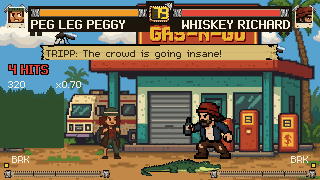
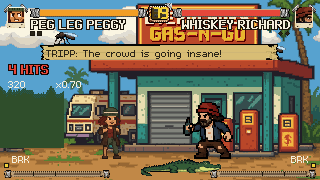
fix(hud): METH READY above each meter so both can show at once
PM review of PR #96: with both meters full the beside-the-meter labels
and skulls collided mid-screen. Each label now sits above its own meter,
flush with the inner end, skull in the empty middle; P2 BRK ink ends
before its pip. New hud_test check (81 -> 82) pins labels, skulls and BRK
apart with both meters full. Captures reset high contrast after its shot,
so the combo screenshots show the default HUD; all HUD shots re-captured.

Claude-Session: https://claude.ai/code/session_01MQNP9q7juxGwGURViUuvSn

diff --git a/docs/UI_SCREENS.md b/docs/UI_SCREENS.md
@@ -166,7 +166,7 @@ banners, callouts and macro flashes clear.
 | Names | outlined Marker cream at y 19 (P1 left from x 30, P2 right to x 290) | static per fighter |
 | Round pips | y 31 from each bar's outer end; P1 `hud_pip_square_*`, P2 `hud_pip_diamond_*` | grow with double-KO pips. **No win-type letters: MatchRoot keeps no per-round win history** (TODO: the K/T/M/D pip art is approved and waits on a sim-side decision). |
 | Timer | `hud_timer_box.png` at (148,3); two 8x12 cells from `hud_timer_digits.png` (0-9, cell 10 = infinity), centered | under 10 s the box tints dirty yellow and the digits tick one shade per 15 sim frames |
-| Meter | `hud_meter_frame.png` 106x8 at (4,170)/(210,170); 90x4 fill `#5ac8ff` between the tape caps (+7,+2) above the frame art, tick marks at 25 and 50 | at full the fill turns `#ff3d9a`, "METH READY" in outlined Marker pink sits beside the bar (P1 edge x 114, P2 edge x 206) and the 8x8 skull frames alternate every **15 sim frames** |
+| Meter | `hud_meter_frame.png` 106x8 at (4,170)/(210,170); 90x4 fill `#5ac8ff` between the tape caps (+7,+2) above the frame art, tick marks at 25 and 50 | at full the fill turns `#ff3d9a`, "METH READY" in outlined Marker pink sits ABOVE its own meter (y 157), flush with the inner end (P1 right edge x 110, P2 left edge x 210), skull just past that end (x 112 / 200, y 159), so both can show at once; BRK stays at the outer end. The 8x8 skull frames alternate every **15 sim frames** |
 | Banners | 160x32 `hud_banner_plate.png` centered (y 74) with the word sprite: round_1-5, decisive, fight, ko, time, double_ko, methtality | stamp in over **6 sim frames** from 8 px above in integer steps; spriteless messages (TAKES THE ROUND, WINS THE MATCH, DRAW, SUDDEN DEATH, ROUND 6+) render in outlined Marker cream on the plate. FIGHT auto-removes after 30 sim frames, METH after 120; round/KO banners persist until replaced (today's timing). |
 | Callouts | outlined Marker cream on the event owner's side at y 80 | COUNTER HIT / TECH / BREAK! / CLIP CANCEL use the existing one-at-a-time slot for **30 sim frames** |
 | Combo counter | existing positions and outlined Marker font at y 64; P1 left, P2 right | the defender's `combo_tracker.changed(hits, total_damage)` drives the **opposite attacker's side**. Tint follows the base ladder for the latest hit: 1.00 yellow, 0.85 orange, 0.70 red, 0.55-or-lower pink. The damage total at y 77 and `x0.70`-style m5x7 scale tag are shown only when `gameplay.show_combo_damage` is on. The scale tag reports the base ladder tier, not move-specific repeat/variety modifiers. Both line items yield to a same-side callout to prevent label overlap. |
@@ -384,7 +384,7 @@ on an approved file missing from the table, and exits non-zero.
   up; the 30-frame Results guard; REMATCH routes through the VS bumper
   and keeps fighters and stage; CHARACTER SELECT / STAGE SELECT /
   MAIN MENU all route correctly and unpause.
-- `game/tests/hud_test.gd` — 81 checks (UI Phase 2 + Combo Phase 4, against a scratch
+- `game/tests/hud_test.gd` — 82 checks (UI Phase 2 + Combo Phase 4, against a scratch
   settings.cfg): portrait states; health and the 20-frame ghost drain;
   the HUD tick frozen while paused; pip sprites; timer digit cells and
   the under-10 tint; meter width, the METH-pink full state and the

diff --git a/docs/PM_BRIEF.md b/docs/PM_BRIEF.md
@@ -16,7 +16,7 @@
 > high_contrast_hud, hide_tripp_text). This branch adds **Combo Phase 4's
 > HUD half**: the defender's combo count/damage/base scale and juggle pips
 > on the attacker's side, macro flash, stun bar, breaker pip, and BREAK! /
-> CLIP CANCEL callouts. New suite counts: hud_test 81; ui_typography 46;
+> CLIP CANCEL callouts. New suite counts: hud_test 82; ui_typography 46;
 > round_flow 35
 > (decisive/FIGHT banner pins). Win-type pip letters stay out —
 > MatchRoot keeps no per-round win history (KNOWN_ISSUES). (Earlier on
@@ -136,7 +136,7 @@ Counts are PASS+FAIL lines observed in real headless runs, not doc claims.
 | `ui_typography_test.gd` | Phase 1 + PR A/B/C typography and contrast rules; HUD labels at round start/mid-fight and overlap-free juggle, stun, full-meter breaker and P2 callout+combo states | **46**, 0 fail | yes |
 | `select_screens_test.gd` | PR A select reskins: Mode/Difficulty choices unchanged (names, order, defaults, emits, back paths), difficulty tallies, rap-sheet photo + wall copy, per-player scribble cursors, ticket focus lift, the 18-frame RANDOM scratch-off and its hand-off | **24**, 0 fail | yes — added 2026-11-22 (PR A) |
 | `results_flow_test.gd` | PR B match wrap: the VS slide-in (12 integer steps), 20-frame skip guard, 150-frame duration and hand-off; Results appears at match end above the frozen match with the real winner/stats; serialize() identical while Results is up; the 30-frame Results guard; every Results option routes (REMATCH keeps fighters and stage through the VS bumper) | **20**, 0 fail | yes — added 2026-11-22 (PR B) |
-| `hud_test.gd` | UI Phase 2 + Combo Phase 4 HUD: combo side-mirroring, ladder tint/scale setting, macro flash, juggle/stun/breaker readouts, event callouts, pause/load resync, and unchanged MatchRoot serialization | **81**, 0 fail | yes |
+| `hud_test.gd` | UI Phase 2 + Combo Phase 4 HUD: combo side-mirroring, ladder tint/scale setting, macro flash, juggle/stun/breaker readouts, event callouts, pause/load resync, and unchanged MatchRoot serialization | **82**, 0 fail | yes |
 | `air_probe.gd` | Balance metrics only, asserts nothing, always exits 0 | 0 (metrics) | yes (separate job) |
 | `juggle_probe.gd` | Juggle balance metrics (every budget-legal launcher route, jab-only reference, candidate ladders), asserts nothing | 0 (metrics) | no |
 | `juggle_route_probe.gd` | Real-hitbox juggle route timing search (human timing; ~7 min) | 0 (metrics) | no |
@@ -312,9 +312,9 @@ Release blockers / decisions pending:
   SELECT / MAIN MENU; pinned by `results_flow_test` (20). **Phase 2
   (HUD) — SHIPPED on this branch (2026-11-22):** the full street-junk
   HUD reskin on the sim tick with five settings consumed, pinned by
-  `hud_test` (81). **Combo Phase 4 HUD half — shipped on this branch:**
+  `hud_test` (82). **Combo Phase 4 HUD half — shipped on this branch:**
   attacker-side combo readouts, scale tint/tag, macro flash, juggle pips,
-  stun bar, breaker pip and callouts, pinned by `hud_test` (81) and
+  stun bar, breaker pip and callouts, pinned by `hud_test` (82) and
   `ui_typography_test` (46). Controls/extras follow the plan in
   `docs/UI_HUD_SCREENS_PLAN.md`.
 

diff --git a/docs/COMBO_SYSTEM_DESIGN.md b/docs/COMBO_SYSTEM_DESIGN.md
@@ -619,7 +619,7 @@ data):
   signals and public fighter state; see §15.3.
 - CPU: §12 knobs wired into `cpu_*.tres`; soak re-run at HARD; difficulty
   ordering re-verified (HARD strings better than EASY).
-- Tests: `hud_test.gd` (81 checks) and `ui_typography_test.gd` (46 checks)
+- Tests: `hud_test.gd` (82 checks) and `ui_typography_test.gd` (46 checks)
   pin the HUD; CPU legality is unchanged and the soak remains covered.
 
 ## 15. Open decisions — RESOLVED (owner-approved 2026-11-20)
@@ -791,7 +791,7 @@ CLIP CANCEL join the existing 30-frame one-at-a-time callout slot. All timers
 use the HUD sim tick (paused and hitstop-frozen); readouts resync after load,
 while transient flashes clear. The HUD holds no state in `serialize()`.
 
-**Verification:** `hud_test.gd` has 81 checks; `ui_typography_test.gd` has 46.
+**Verification:** `hud_test.gd` has 82 checks; `ui_typography_test.gd` has 46.
 Rendered captures are listed in `docs/UI_SCREENS.md`. The A2/A3/A4 owner
 rulings in §11 and §10.3/§10.5 remain unchanged.
 

diff --git a/docs/KNOWN_ISSUES.md b/docs/KNOWN_ISSUES.md
@@ -605,7 +605,7 @@ landed 2026-11-21 — data recorded, no balance fixes applied yet):**
   up; the 30-frame Results input guard; REMATCH routes through the VS
   bumper and keeps fighters and stage; CHARACTER SELECT / STAGE SELECT /
   MAIN MENU all route correctly and unpause.
-- `game/tests/hud_test.gd` — **81 checks** (UI Phase 2 + Combo Phase 4, 2026-11-22; runs
+- `game/tests/hud_test.gd` — **82 checks** (UI Phase 2 + Combo Phase 4, 2026-11-22; runs
   against a scratch settings.cfg): portrait states (normal, hurt under
   25%, ko after the round, refill restores); health fills and the
   20-sim-frame combo ghost drain; the HUD tick frozen while paused; pip

diff --git a/docs/PHASE_STATUS.md b/docs/PHASE_STATUS.md
@@ -137,7 +137,7 @@ phase exit criteria:
   `docs/UI_SCREENS.md` documents what shipped (typography rules included),
    and the twenty-one-suite CI adds ui_flow (53), settings (16),
    ui_assets (4), ui_typography (46), select screens (24), results flow
-   (20), and match HUD (81). **PR A + PR B (2026-11-22):** the select screens are street-junk
+   (20), and match HUD (82). **PR A + PR B (2026-11-22):** the select screens are street-junk
   reskins (cardboard mode/difficulty, mugshot-wall booking with scribble
   cursors, scratch-ticket stages with the 18-frame RANDOM reveal), and the
   match wrap ships — the VS bumper before every match and the Results
